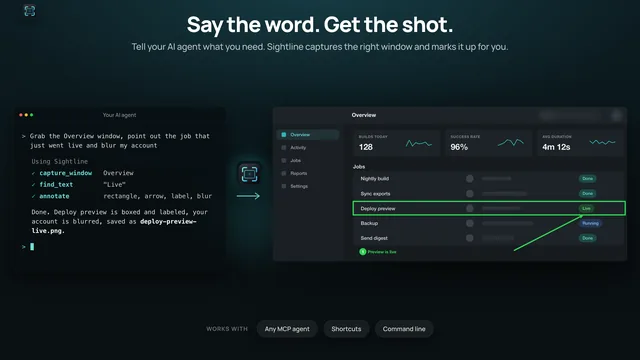
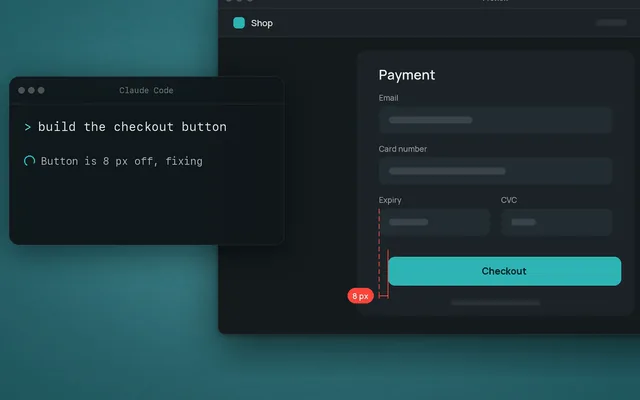
Show Sightline in its v3 look: the agent measuring its own button and the editor, with the current feature set in the card text

diff --git a/index.html b/index.html
@@ -455,7 +455,7 @@ pre .c { color: rgba(255, 255, 255, 0.45); }
               <h2>Sightline</h2>
             </div>
           </div>
-          <p>Capture, record, annotate, done. A fast screenshot and screen recording tool with one editor for pictures and clips, scrolling capture and text recognition. Its built in MCP server lets Claude Code, Claude Desktop, Codex and any MCP client take, read and annotate screenshots on your terms: you approve each agent once, and every action shows a notice.</p>
+          <p>Capture, record, annotate, done. A menu bar tool for screenshots and screen recordings with one slim editor for both, scrolling capture, background removal, pins that float on screen and a history that never loses a capture. Its built in MCP server lets Claude Code, Claude Desktop, Codex and any MCP client see what they built: capture a window, read its text and mark it up. You approve each agent once, and every mark it draws stays editable.</p>
           <div class="cta">
             <a class="store-badge" href="https://apps.apple.com/app/sightline/id6812521593">
               <svg aria-hidden="true"><use href="#apple"/></svg>
@@ -466,8 +466,8 @@ pre .c { color: rgba(255, 255, 255, 0.45); }
         </div>
         <div class="project-media">
           <div class="stack">
-            <img src="assets/sightline-agent-480.webp?v=3" srcset="assets/sightline-agent-480.webp?v=3 480w, assets/sightline-agent-640.webp?v=3 640w, assets/sightline-agent.webp?v=3 960w" sizes="(min-width: 1200px) 480px, (min-width: 961px) calc(50vw - 120px), calc(100vw - 120px)" alt="An AI agent asking Sightline for a screenshot and getting the window captured and marked up" width="960" height="540" loading="lazy">
-            <img src="assets/sightline-screen-480.webp?v=3" srcset="assets/sightline-screen-480.webp?v=3 480w, assets/sightline-screen-640.webp?v=3 640w, assets/sightline-screen.webp?v=3 960w" sizes="(min-width: 1200px) 480px, (min-width: 961px) calc(50vw - 120px), calc(100vw - 120px)" alt="A recording open in the Sightline editor with an arrow, a blur that follows the page, and a trim control" width="960" height="540" loading="lazy">
+            <img src="assets/sightline-agent-480.webp?v=4" srcset="assets/sightline-agent-480.webp?v=4 480w, assets/sightline-agent-640.webp?v=4 640w, assets/sightline-agent.webp?v=4 960w" sizes="(min-width: 1200px) 480px, (min-width: 961px) calc(50vw - 120px), calc(100vw - 120px)" alt="Claude Code saying the checkout button is 8 px off and fixing it, next to the checkout form where a red guide measures the 8 px gap" width="960" height="600" loading="lazy">
+            <img src="assets/sightline-capture-480.webp?v=4" srcset="assets/sightline-capture-480.webp?v=4 480w, assets/sightline-capture-640.webp?v=4 640w, assets/sightline-capture.webp?v=4 960w" sizes="(min-width: 1200px) 480px, (min-width: 961px) calc(50vw - 120px), calc(100vw - 120px)" alt="A captured jobs table in the Sightline editor, with a teal arrow and a numbered badge pointing at a failed job and the tool bar below" width="960" height="600" loading="lazy">
           </div>
         </div>
       </article>
